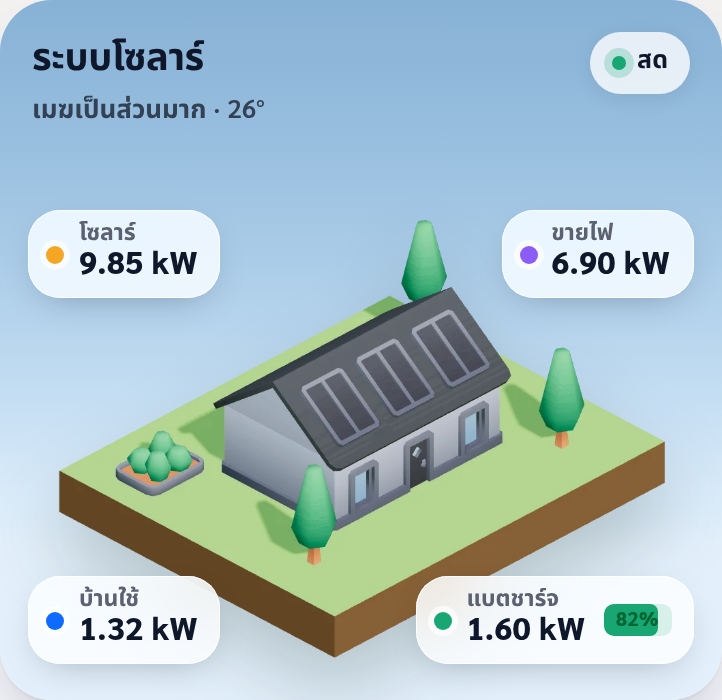
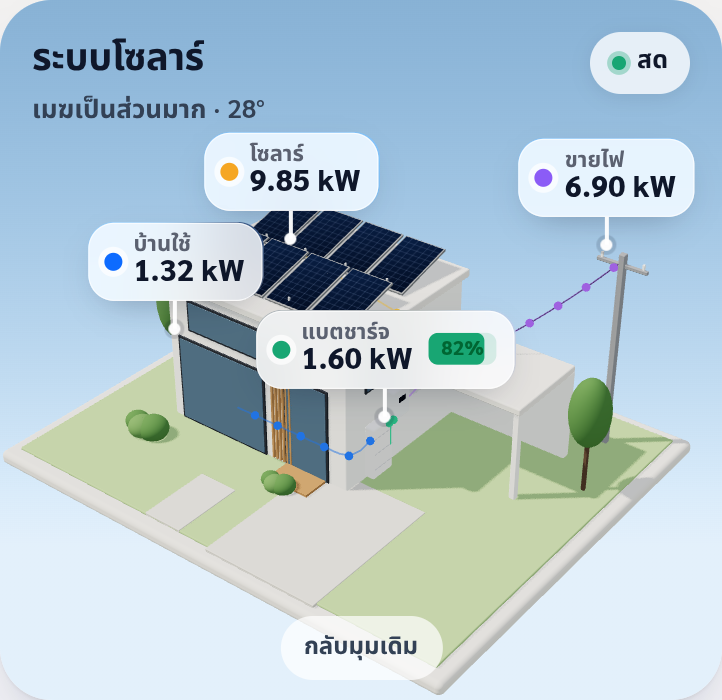
docs: README/ARCHITECTURE for the 3D house, battery-now and day/night cards + fresh screenshots; 3D view repaints on resize while paused; hint is a short no-wrap 'กลับมุมเดิม' button, chip values don't wrap; mockup waits for WebGL and fronts the right tab

diff --git a/src/index.css b/src/index.css
@@ -309,7 +309,7 @@ textarea {
 .hscene .hs-chip .dot { width: 9px; height: 9px; border-radius: 50%; flex-shrink: 0; box-shadow: 0 0 0 3px rgba(255, 255, 255, .7); }
 .hscene .hs-chip .txt { display: flex; flex-direction: column; line-height: 1.1; }
 .hscene .hs-chip .lb { font-size: 11.5px; font-weight: 600; color: #5b6170; }
-.hscene .hs-chip .vl { font-size: 16px; font-weight: 800; color: #0f172a; font-variant-numeric: tabular-nums; }
+.hscene .hs-chip .vl { white-space: nowrap; font-size: 16px; font-weight: 800; color: #0f172a; font-variant-numeric: tabular-nums; }
 .hscene .hs-chip .soc { position: relative; width: 34px; height: 16px; border-radius: 5px; background: rgba(24, 166, 115, .15); overflow: hidden; margin-left: 2px; }
 .hscene .hs-chip .soc i { position: absolute; inset: 0 auto 0 0; background: #18a673; border-radius: 4px; }
 .hscene .hs-chip .soc b { position: relative; display: block; text-align: center; font-size: 10px; font-weight: 800; color: #063; line-height: 16px; }
@@ -335,7 +335,7 @@ textarea {
 .hscene .hs-pin .hs-chip .vl { font-size: 15px; }
 .hscene .hs-pin::after { content: ""; position: absolute; left: 50%; bottom: -14px; width: 1.5px; height: 14px; background: rgba(255, 255, 255, .95); transform: translateX(-50%); }
 .hscene .hs-pin::before { content: ""; position: absolute; left: 50%; bottom: -17px; width: 6px; height: 6px; border-radius: 50%; background: #fff; transform: translateX(-50%); box-shadow: 0 0 0 2px rgba(15, 23, 42, .15); }
-.hscene .hs-hint { position: absolute; left: 50%; bottom: 10px; transform: translateX(-50%); font-size: 12px; font-weight: 700; color: #334155; background: rgba(255, 255, 255, .7); padding: 6px 12px; border-radius: 999px; min-height: 32px; }
+.hscene .hs-hint { position: absolute; left: 50%; bottom: 10px; transform: translateX(-50%); white-space: nowrap; font-size: 12px; font-weight: 700; color: #334155; background: rgba(255, 255, 255, .7); padding: 6px 12px; border-radius: 999px; min-height: 32px; }
 .hscene.dim .hs-hint { color: #e2e8f0; background: rgba(15, 23, 42, .5); }
 
 /* iPhone-style passcode screen */

diff --git a/src/components/HouseScene.tsx b/src/components/HouseScene.tsx
@@ -121,7 +121,7 @@ export function HouseScene({ latest, weather, title, force }: { latest: Latest; 
       {chip("home", "บ้านใช้", fmtPower(useW))}
       {hasBatt && chip("batt", discharging ? "แบตจ่าย" : charging ? "แบตชาร์จ" : "แบต", fmtPower(Math.abs(bp)),
         latest.socKnown !== false ? <span className="soc"><i style={{ width: `${soc}%` }} /><b>{soc}%</b></span> : undefined)}
-      {live3d && <button type="button" className="hs-hint" onClick={() => view.current?.reset()}>ลากเพื่อหมุน · แตะเพื่อกลับมุมเดิม</button>}
+      {live3d && <button type="button" className="hs-hint" onClick={() => view.current?.reset()}>กลับมุมเดิม</button>}
     </div>
   );
 }

diff --git a/src/three/view.ts b/src/three/view.ts
@@ -97,6 +97,7 @@ export function createHouseView(host: HTMLElement, opts: { night: boolean; reduc
     renderer.setSize(w, h, false); cam.aspect = w / h;
     // fit the plot: narrower screens pull back a little
     cam.zoom = Math.min(1, w / h) * 0.84; cam.updateProjectionMatrix();
+    renderer.render(scene, cam); // setSize clears the canvas; repaint even while the loop is paused
   };
   const ro = new ResizeObserver(resize); ro.observe(host);
 

diff --git a/README.md b/README.md
@@ -39,7 +39,7 @@
 
 <table>
   <tr>
-    <td width="33%" valign="top"><h3>⚡ เห็นสด อัปเดตทุกนาที</h3>ผังการไหลของพลังงาน โซลาร์ ↔ บ้าน ↔ แบต ↔ กริด จาก <b>Deye Cloud Open API</b> จริง รีเฟรชเองทุก 1 นาที</td>
+    <td width="33%" valign="top"><h3>⚡ เห็นสด อัปเดตทุกนาที</h3>บ้าน 3D ลากหมุนได้ จุดไฟวิ่งจากแผง แบต และเสาไฟเข้าบ้านตามทิศจริง จาก <b>Deye Cloud Open API</b> รีเฟรชเองทุก 1 นาที</td>
     <td width="33%" valign="top"><h3>📱 เหมือนแอปจริง ใช้ได้ทุกวัย</h3>ดีไซน์แบบ iPhone (หัวข้อใหญ่ แถบเมนูกระจก แป้น PIN) ตัวเลขใหญ่ ทุกสีมีคำกำกับ ปุ่มใหญ่ (Universal Design)</td>
     <td width="33%" valign="top"><h3>💸 ฟรีจริง</h3>Cloudflare Workers + D1 free tier ล้วน ไม่มีค่าเซิร์ฟเวอร์รายเดือน deploy ได้ใน 1 คลิก</td>
   </tr>
@@ -63,13 +63,17 @@
   </tr>
 </table>
 
-**บ้าน 3D บนหน้าหลัก — ท้องฟ้าและแสงเปลี่ยนตามเวลาจริงของบ้าน**
+**บ้าน 3D บนหน้าหลัก** — ลากซ้าย-ขวาหมุนรอบบ้าน ขึ้น-ลงก้มเงยมุมกล้อง · จุดไฟวิ่งตามสายจริง (แผง → อินเวอร์เตอร์ → บ้าน / แบต / เสาไฟ) · ป้ายตัวเลขเกาะอุปกรณ์ · ท้องฟ้าและแสงตามเวลาจริงของบ้าน
 
 <table>
   <tr>
     <td align="center"><img src="docs/shots/hero-day.png" alt="กลางวัน" width="240"><br><sub>กลางวัน · ผลิตเต็ม + ขายไฟ</sub></td>
     <td align="center"><img src="docs/shots/hero-golden.png" alt="แดดเย็น" width="240"><br><sub>แดดเย็น · ชาร์จแบต</sub></td>
     <td align="center"><img src="docs/shots/hero-night.png" alt="กลางคืน" width="240"><br><sub>กลางคืน · ไฟในบ้านเปิด แบตจ่าย</sub></td>
+  </tr>
+  <tr>
+    <td align="center" colspan="2"><img src="docs/shots/card-daynight.png" alt="ใช้ไฟกลางวันกับกลางคืน" width="300"><br><sub>ใช้ไฟกลางวัน กับ กลางคืน (เที่ยงถึงเที่ยง)</sub></td>
+    <td align="center"><img src="docs/shots/card-battery-now.png" alt="แบตเตอรี่ตอนนี้" width="240"><br><sub>แบตเตอรี่ตอนนี้ · ใช้ได้ถึงกี่โมง</sub></td>
   </tr>
   <tr>
     <td align="center" colspan="2"><img src="docs/shots/card-year.png" alt="ภาพรวมทั้งปี" width="300"><br><sub>ภาพรวมทั้งปี + คาดผลิตทั้งปี</sub></td>
@@ -82,8 +86,9 @@
 ## ฟีเจอร์
 
 ### ดูระบบแบบสด
-- **หน้าหลัก** — สถานะระบบ (ปกติ/แจ้งเตือน), ผลิตไฟวันนี้, เงินที่ประหยัด, ผังพลังงานเส้นวิ่งตามทิศไฟจริง
-- **วันนี้** — สรุปผลิต/ใช้/ซื้อ/ไฟย้อน, สัดส่วนพึ่งพาตัวเอง, การหมุนเวียนพลังงาน · สลับมุมมอง **เต็มวัน** หรือ **รอบแดด เที่ยง→เที่ยง** (เห็นกลางวันกับกลางคืนแยกกัน)
+- **หน้าหลัก** — บ้าน 3D หมุนได้พร้อมจุดไฟวิ่งตามทิศจริง, สถานะระบบ (ปกติ/แจ้งเตือน), ผลิตไฟวันนี้, เงินที่ประหยัด
+- **แบตเตอรี่ตอนนี้** — กำลังชาร์จ/จ่ายเท่าไหร่ และ **เพราะอะไร** เป็นประโยคสั้นๆ, "ใช้ได้ถึงกี่โมง" / "เต็มราวกี่โมง" คิดจากความจุที่วัดจริงและจุดตัดที่เรียนรู้จากข้อมูลบ้านนี้ (ไม่ใช้ค่าบนฉลาก)
+- **วันนี้** — สรุปผลิต/ใช้/ซื้อ/ไฟย้อน, สัดส่วนพึ่งพาตัวเอง, การหมุนเวียนพลังงาน · สลับมุมมอง **ทั้งวัน** หรือ **เที่ยงถึงเที่ยง** (เห็นการใช้ไฟกลางวันกับกลางคืนแยกกัน)
 - **รายละเอียดเครื่อง** — ค่าต่อเฟส / PV string / BMS, **alarm จริงจากอินเวอร์เตอร์**, ตรวจสุขภาพระบบ (สมดุลเฟส · ช่องแบต · แรงดัน/ความถี่ · อุณหภูมิ — เงียบเมื่อปกติ), แนวโน้ม 1–90 วัน
 - **หลายสถานี** — บัญชีมีหลายระบบ มีตัวสลับบนหัวจอให้เอง
 
